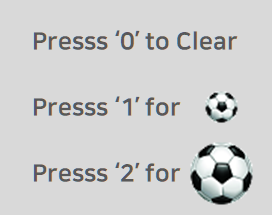
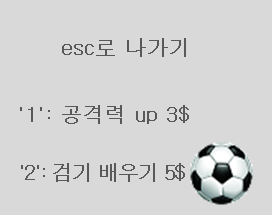
상점에서 스킬을 배우고, 공격력을 높일 수 있음

diff --git a/source_code/ball.py b/source_code/ball.py
@@ -2,6 +2,7 @@ from pico2d import load_image, draw_rectangle
 import game_world
 import game_framework
 
+
 METER = 3
 PIXEL_PER_METER = (10.0 / 0.3)  # 10 pixel 30 cm
 
@@ -16,14 +17,14 @@ class Ball:
     def __init__(self, x = 400, y=400, velocity=1):
         print('create ball')
         if Ball.image is None:
-            Ball.image = load_image('ball21x21.png')
+            Ball.image = load_image('ball41x41.png')
         self.x = x
         self.y = y
         self.velocity = velocity
         # self.boy.image.clip_composite_draw(int(self.boy.frame) * 128, 2 * 128, 128, 128, 0, 'h',
         #                                           self.boy.x, self.boy.y, METER * PIXEL_PER_METER, METER * PIXEL_PER_METER)
     def draw(self):
-        self.image.clip_composite_draw(0, 0, 21, 21, 0, '', self.x, self.y, METER * PIXEL_PER_METER, METER * PIXEL_PER_METER)
+        self.image.clip_composite_draw(0, 0, 41, 41, 0, '', self.x, self.y, METER * PIXEL_PER_METER, METER * PIXEL_PER_METER)
         draw_rectangle(*self.get_bb())
 
         print('draw ball')

diff --git a/source_code/item_mode.py b/source_code/item_mode.py
@@ -39,14 +39,13 @@ def handle_events():
         elif event.type == SDL_KEYDOWN and event.key == SDLK_ESCAPE:
             game_framework.pop_mode()
         elif event.type == SDL_KEYDOWN:
-            if event.key == SDLK_0:
-                play_mode.boy.item = None
-                game_framework.pop_mode()
-            elif event.key == SDLK_1:
-                play_mode.boy.item = 'Ball'
+            if event.key == SDLK_1:
+                home_mode.Boy.money -= 3
+                
                 game_framework.pop_mode()
             elif event.key == SDLK_2:
-                play_mode.boy.item = 'BigBall'
+                home_mode.Boy.money -= 5
+                home_mode.Boy.set_balls = 1
                 game_framework.pop_mode()
             elif event.key == SDLK_q:
                 game_framework.pop_mode() # 아이템 모드에서 빠져나올 때는 홈모드로 돌아가야하므로 pop_mode

diff --git a/source_code/boy.py b/source_code/boy.py
@@ -178,12 +178,11 @@ class Run:
 class Boy:
     money = 0
     dir = 0
-    set_balls = 1
+    set_balls = 0
     def __init__(self):
         self.x, self.y = 140, 130
         self.frame = 0
         self.face_dir = 1
-
         self.yv = 0
         self.font = load_font('ENCR10B.TTF', 16)
         self.image = load_image('player_sprite_full.png')
